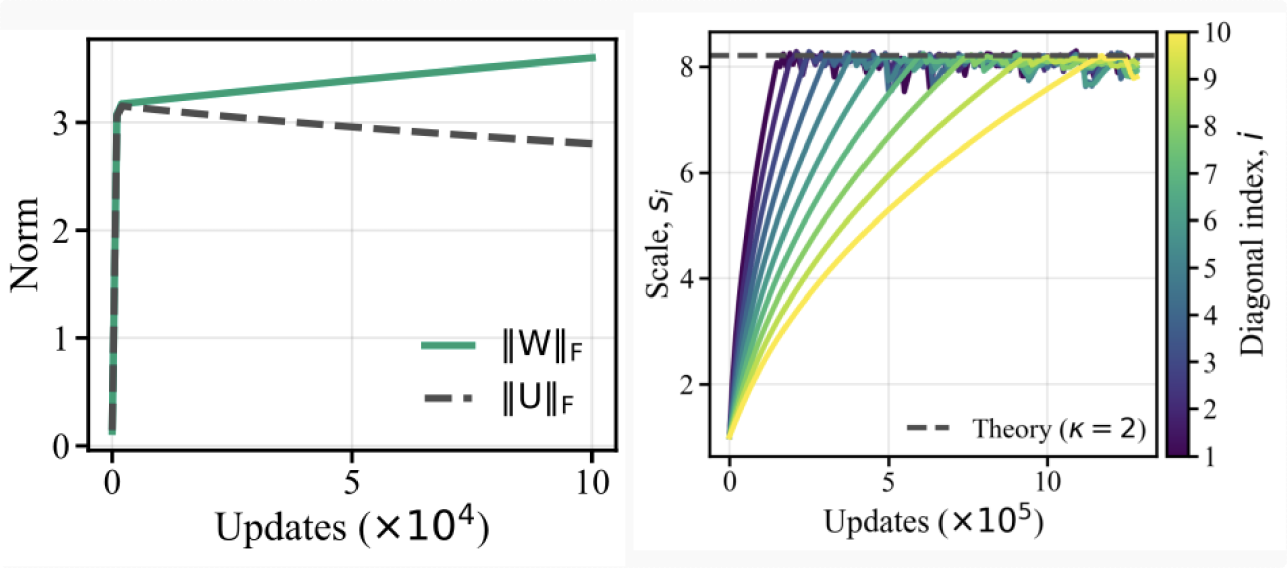
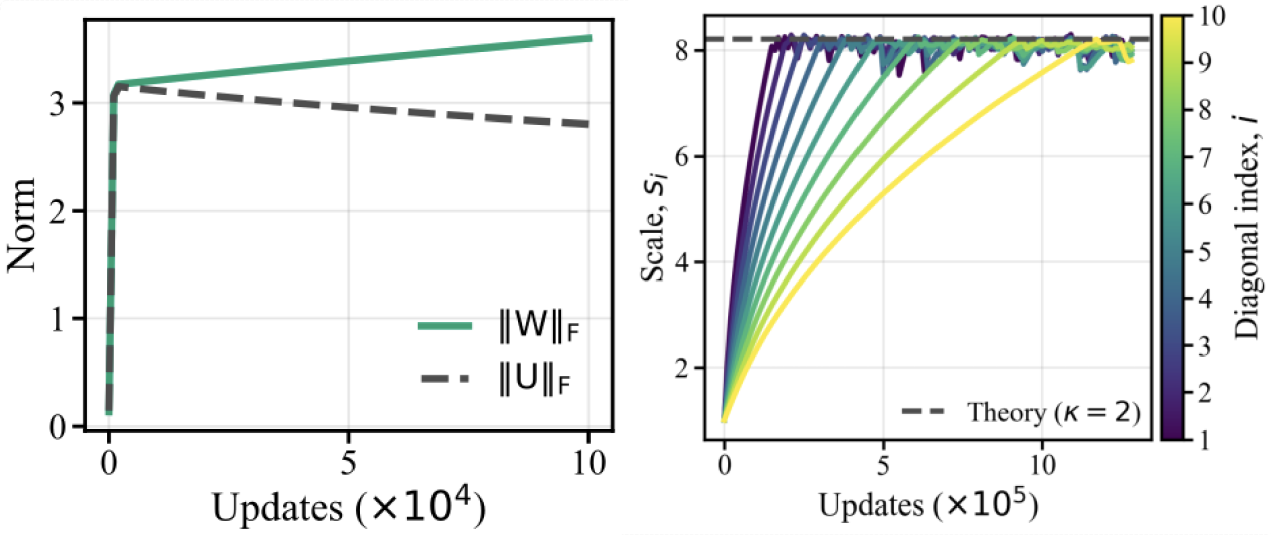
Updated site

Changed region(s): [[0.0, 0.0, 1.0, 0.9869], [0.1533, 0.8972, 0.3986, 0.9869]]

diff --git a/_pages/about.md b/_pages/about.md
@@ -53,7 +53,7 @@ ___
      Stimulus symmetries can confound representational similarity analyses
     </a><br>
     <strong>Farhad Pashakhanloo</strong>, and Jacob Zavatone-Veth, 	arXiv:2605.21324 (2026).
-    <br> Other versions:<br> Unifying Representations in Neural Models (UniReps) Workshop, NeurIPS 2025.
+    <br><br> Other versions:<br> Unifying Representations in Neural Models (UniReps) Workshop, NeurIPS 2025.
     <a href="https://openreview.net/forum?id=RONtMurgtS#discussion" target="_blank" style="color: #6aabc5ff; text-decoration: none; font-weight: bold;">
      [Link] <br>
     </a> 9th Annual Conference on Cognitive Computational Neuroscience (2026).
